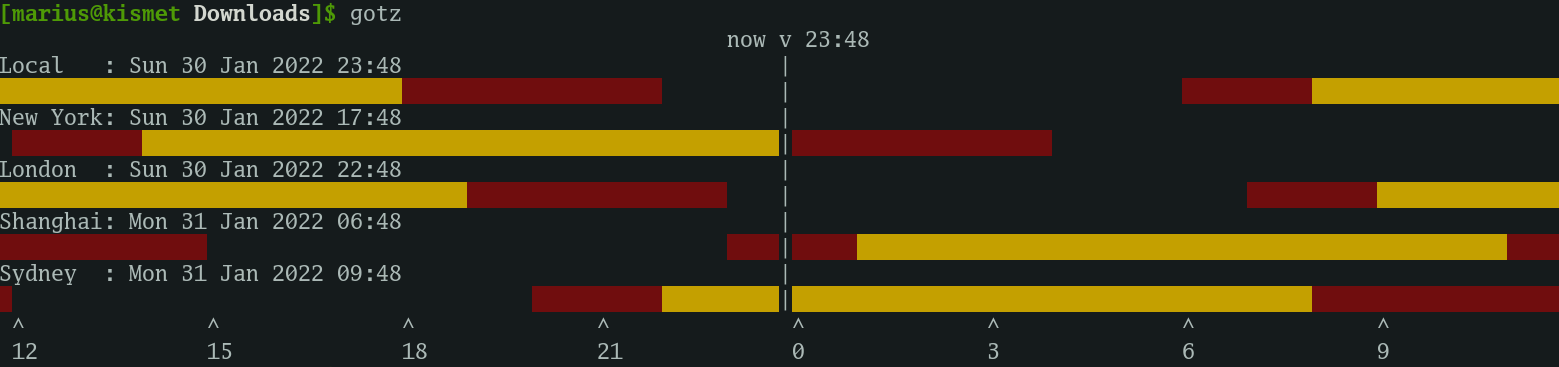
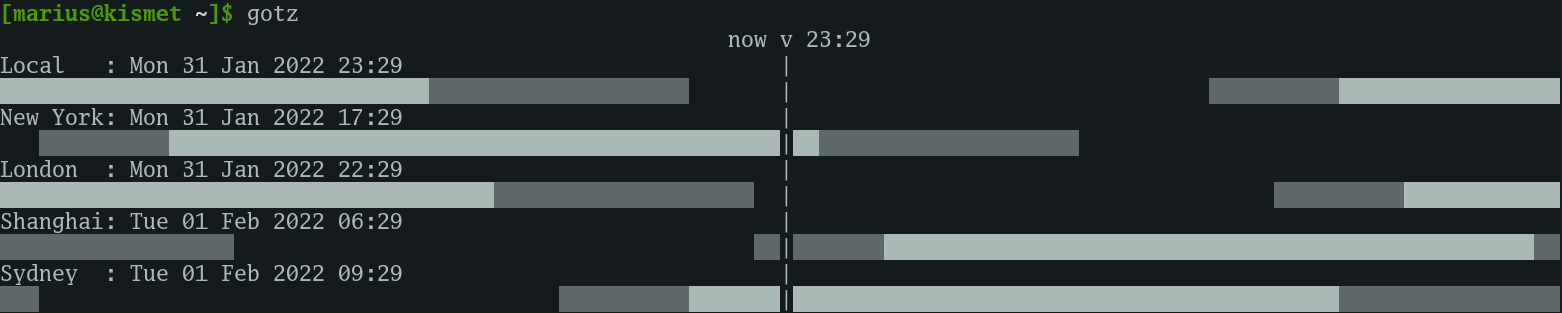
Adding more explanation, changing default

diff --git a/core/configuration.go b/core/configuration.go
@@ -62,8 +62,8 @@ func DefaultConfig() Config {
 	// Add some default locations
 	ny, _ := time.LoadLocation("America/New_York")
 	tzs = append(tzs, Location{"New York", ny.String()})
-	london, _ := time.LoadLocation("Europe/London")
-	tzs = append(tzs, Location{"London", london.String()})
+	london, _ := time.LoadLocation("Europe/Berlin")
+	tzs = append(tzs, Location{"Berlin", london.String()})
 	shanghai, _ := time.LoadLocation("Asia/Shanghai")
 	tzs = append(tzs, Location{"Shanghai", shanghai.String()})
 	sydney, _ := time.LoadLocation("Australia/Sydney")

diff --git a/README.md b/README.md
@@ -58,9 +58,54 @@ gotz --timezones America/New_York,Europe/Berlin
 
 (lookup the timezones in the [timezones](https://en.wikipedia.org/wiki/List_of_tz_database_time_zones) wiki page - _TZ database name_ column)
 
+Set 12-hour format:
+
+```bash
+gotz --hours12 true
+```
+
 ## Customization
 
-TODO: Describe configuration options.
+The configuration is stored in `$HOME/.gotz.config.json`. It can be configured directly or via the arguments of the `gotz` command (see `gotz --help`). The configuration attributes are described in the following example:
+
+```jsonc
+{
+    // Configures how the day is segmented
+    "day_segments": {
+        // Hour of the morning to start (0-23)
+        "morning": 6,
+        // Color of the morning segment (named color or terminal color code)
+        "morning_color": "red",
+        // Hour of the day (business hours / main time) to start (0-23)
+        "day": 8,
+        // Color of the day segment (named color or terminal color code)
+        "day_color": "yellow",
+        // Hour of the evening to start (0-23)
+        "evening": 18,
+        // Color of the evening segment (named color or terminal color code)
+        "evening_color": "blue",
+        // Hour of the night to start (0-23)
+        "night": 22,
+        // Color of the night segment (named color or terminal color code)
+        "night_color": "red"
+    },
+    // Configures the timezones to be shown
+    "timezones": [
+        { "Name": "Office", "TZ": "America/New_York" },
+        { "Name": "Home", "TZ": "Europe/Berlin" },
+    ],
+    // Select symbols to use for the time blocks (one of 'mono', 'rectangles' or 'sun-moon')
+    "symbols": "rectangles",
+    // Indicates whether to plot tics for the local time
+    "tics": false,
+    // Indicates whether to stretch across the full terminal width (causes inhomogeneous segment lengths)
+    "stretch": true,
+    // Indicates whether to colorize the blocks
+    "colorize": false,
+    // Indicates whether to use 12-hour format
+    "hours12": false
+}
+```
 
 ## Why?
 
